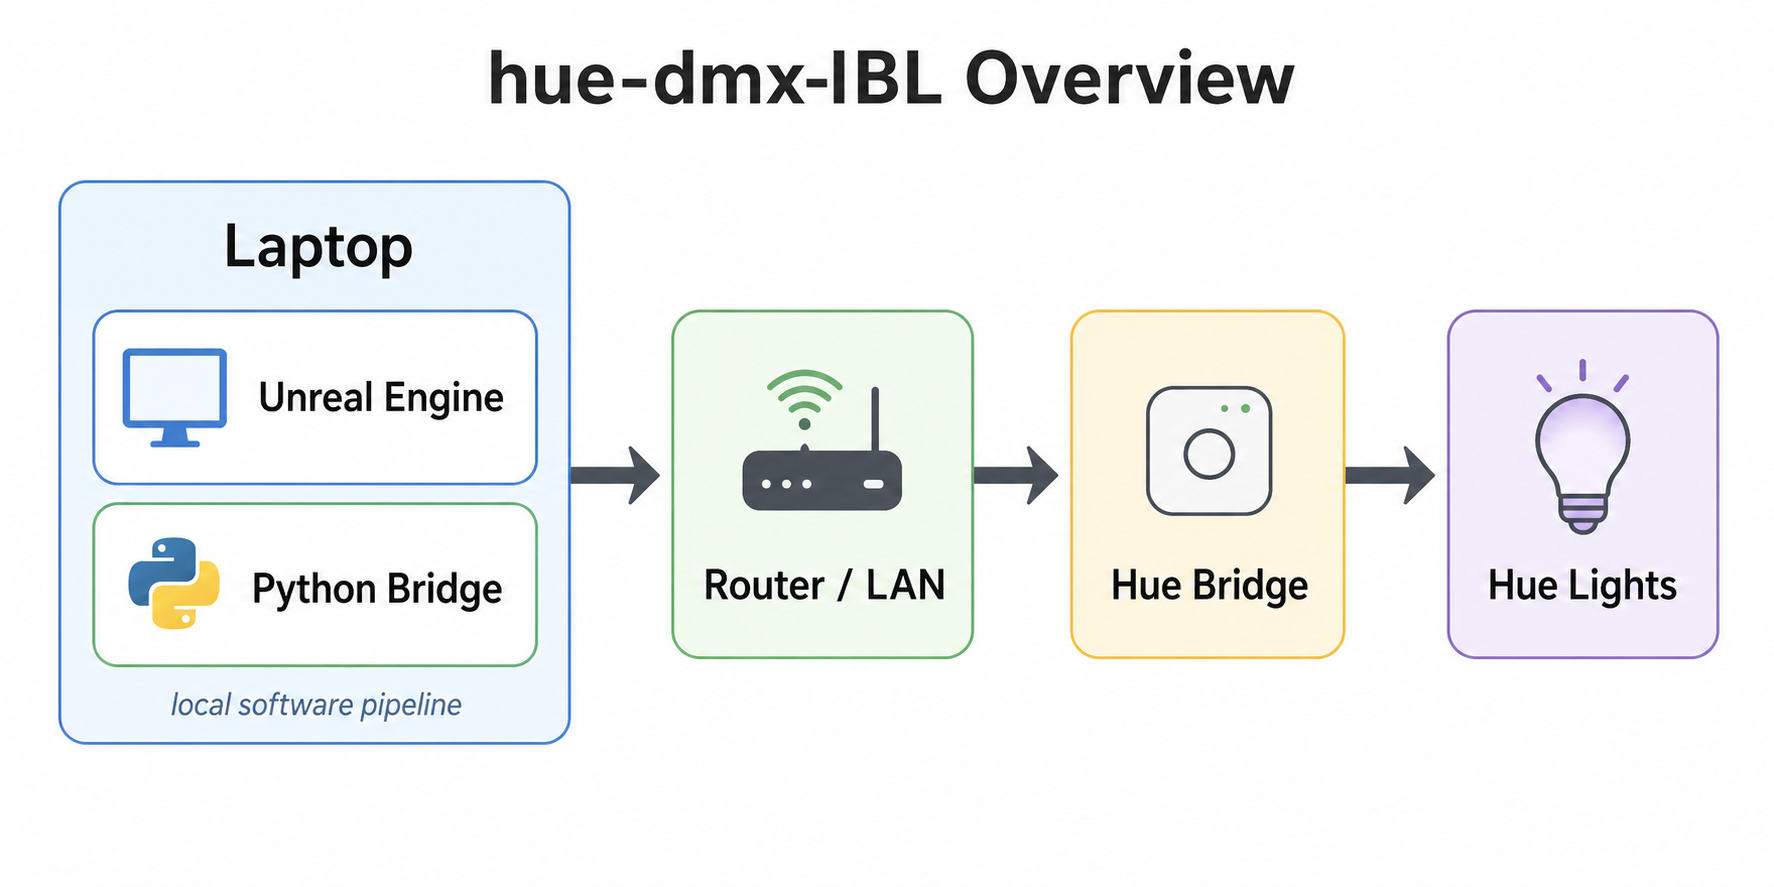
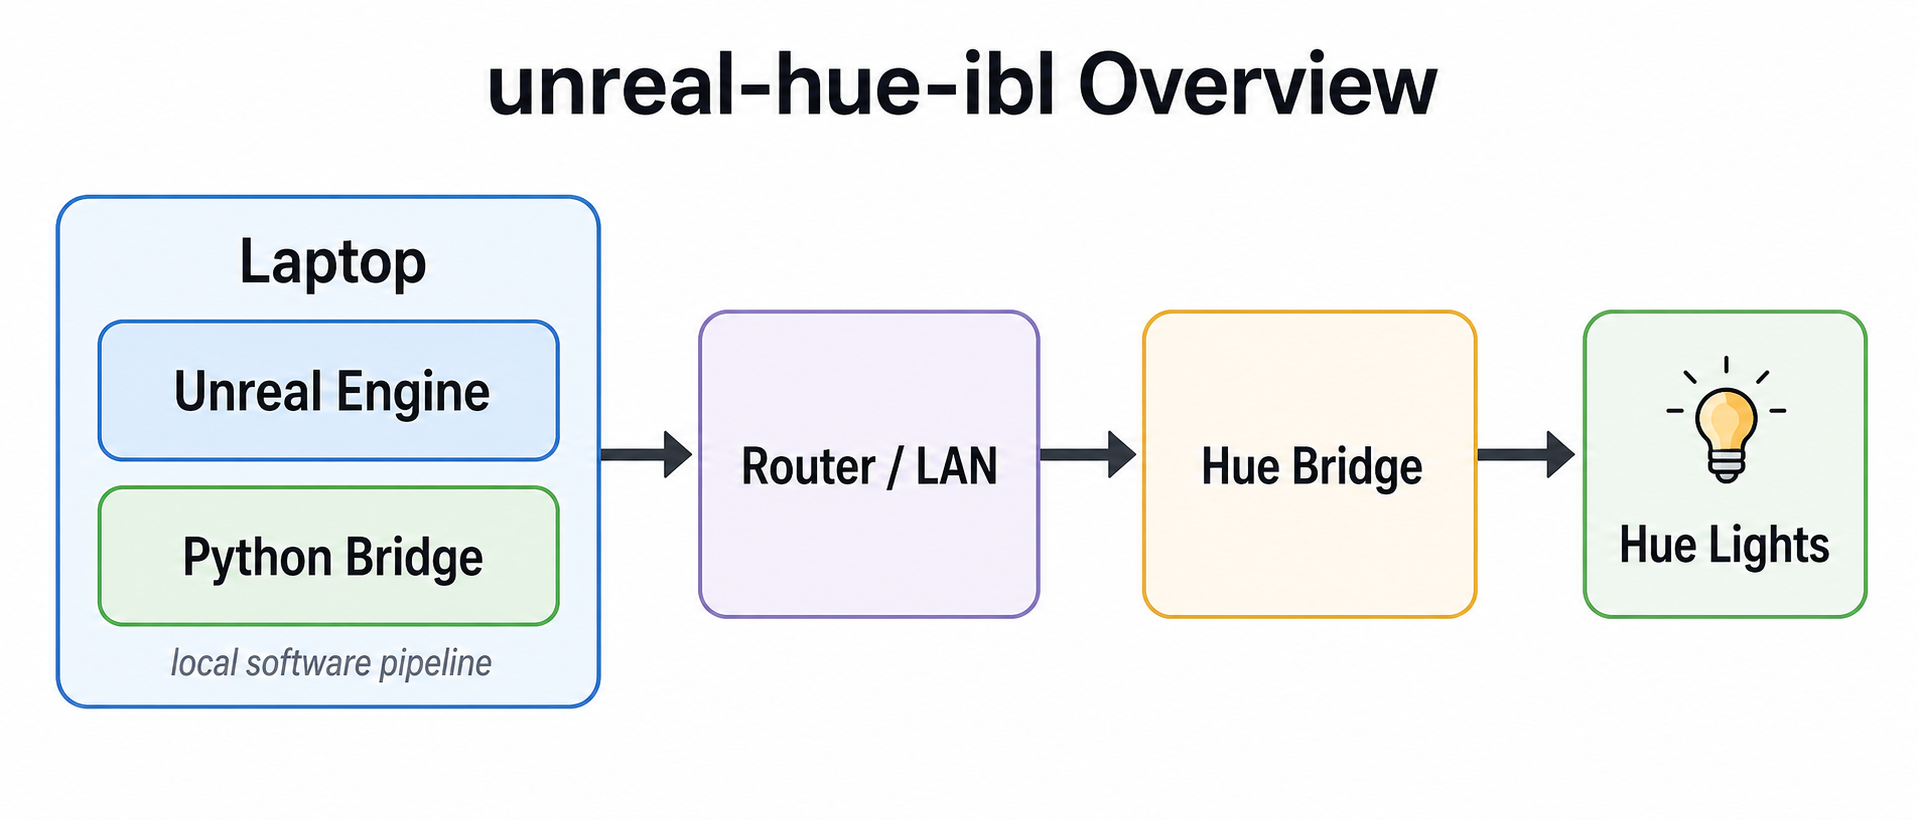
Clarify README and communication workflow

Changed region(s): [[0.031, 0.1829, 0.9921, 0.8841], [0.248, 0.0305, 0.7751, 0.1524]]

diff --git a/README.md b/README.md
@@ -1,74 +1,46 @@
 # unreal-hue-ibl
 
-`unreal-hue-ibl` is an architecture reference and bridge template for driving Philips Hue lights from Unreal Engine using DMX over Art-Net.
+`unreal-hue-ibl` is an Unreal Engine to Philips Hue lighting bridge reference. It shows how Unreal Engine DMX output can drive Hue lights through a small Python translator.
 
 ![unreal-hue-ibl Overview](docs/images/overview-workflow.png)
 
-## Communication Workflow
+## Architecture At A Glance
 
 ```text
 Laptop
-  Unreal Engine -> Art-Net UDP 127.0.0.1:6454 -> Python Bridge
-  Python Bridge -> Hue Entertainment API over LAN
+  Unreal Engine --Art-Net UDP 127.0.0.1:6454--> Python Bridge
 
-Network
-  Router -> Hue Bridge -> Philips Hue Lights
+Network / Hue System
+  Python Bridge --Hue Entertainment Stream--> Router / LAN --> Hue Bridge --> Hue Lights
 ```
 
-The Hue Bridge does **not** receive DMX or Art-Net directly. The Python bridge receives Art-Net from Unreal Engine, translates DMX values into Hue Entertainment RGB updates, and sends those updates to the Hue Bridge over the local network.
-
-The repository is intentionally focused on the workflow and reproducible bridge setup. The full Unreal Engine project/template can be distributed separately as a release or external download link instead of committing the entire UE project into Git.
-
-## Workflow Views
-
-| View | Purpose |
-| --- | --- |
-| [Hardware Workflow](docs/hardware-workflow.md) | Shows the physical laptop, router, Hue Bridge, and Hue lights connection |
-| [Communication Workflow](docs/communication-workflow.md) | Shows which protocols are used between each part |
-| [System Architecture](docs/system-architecture.md) | Explains what each component actually does |
-
-## Repository Layout
+The important boundary is the Python bridge:
 
 ```text
-bridge/
-  hue_artnet_bridge.py       Public bridge script without private credentials
-  config.example.json        Example Hue/Art-Net configuration
-  requirements.txt
-
-docs/
-  communication-workflow.md  Mermaid workflow and signal path notes
-  dmx-mapping.md             DMX channel layout
-  hardware-workflow.md       Physical connection diagram
-  hue-bridge-setup.md        Hue Entertainment setup notes
-  system-architecture.md     Component responsibilities
-  troubleshooting.md
-  unreal-setup.md
-  images/
-    overview-workflow.png
-    communication-workflow.png
-    hardware-network-workflow.png
-
-unreal-template/
-  README.md                  Template distribution notes and download link slot
+DMX / Art-Net side: Unreal Engine -> Python Bridge
+Hue side:          Python Bridge -> Hue Bridge -> Hue Lights
 ```
 
-## Default Signal Settings
+The Hue Bridge does **not** receive DMX or Art-Net directly. It receives Hue Entertainment stream data from the Python bridge.
 
-| Layer | Setting |
-| --- | --- |
-| Protocol | Art-Net |
-| UDP port | `6454` |
-| Unreal destination IP | `127.0.0.1` when bridge runs on the same machine |
-| Universe | `1` |
-| Fixture layout | `Dimmer, Red, Green, Blue` |
-| Default fixture count | `11` |
+Art-Net is the local protocol link from Unreal Engine to Python. It is not a separate hardware device or app in this setup.
 
-## Quick Start
+## How To Use This Repo
+
+1. Start with the overview above to understand the high-level hardware path.
+2. Read [Communication Workflow](docs/communication-workflow.md) to understand the exact protocol path.
+3. Read [Hardware Workflow](docs/hardware-workflow.md) to understand the laptop, router, Hue Bridge, and Hue lights setup.
+4. Use the public Python bridge in [bridge/](bridge/) as the runnable Art-Net to Hue translator.
+5. Use [unreal-template/](unreal-template/) as the placeholder for the downloadable Unreal Engine template project.
+
+This repository is intentionally not a full Unreal Engine project backup. Large UE assets should be distributed through a GitHub Release or external template download link.
+
+## Run The Bridge
 
 1. Configure a Hue Entertainment Area in the Philips Hue app.
 2. Copy `bridge/config.example.json` to `bridge/config.json`.
-3. Fill in your Hue Bridge `ip_address`, `identification`, `rid`, `username`, and `clientkey`.
-4. Install Python dependencies:
+3. Fill in your Hue Bridge values in `bridge/config.json`.
+4. Install dependencies:
 
 ```bash
 pip install -r bridge/requirements.txt
@@ -80,8 +52,39 @@ pip install -r bridge/requirements.txt
 python bridge/hue_artnet_bridge.py --config bridge/config.json
 ```
 
-6. In Unreal Engine, output Art-Net to `127.0.0.1`, UDP port `6454`, universe `1`.
+6. In Unreal Engine, send Art-Net to:
 
-## Security Note
+```text
+Destination IP: 127.0.0.1
+Port: 6454
+Universe: 1
+Fixture layout: Dimmer, Red, Green, Blue
+```
 
-Do not commit your real Hue Bridge `username`, `clientkey`, local bridge config, or private network details. Use `config.example.json` for public documentation and keep `config.json` local.
+Use `127.0.0.1` when Unreal Engine and the Python bridge are running on the same laptop.
+
+## Docs
+
+| Document | Purpose |
+| --- | --- |
+| [Overview](docs/overview.md) | Project concept and component responsibilities |
+| [Communication Workflow](docs/communication-workflow.md) | Protocol flow from Unreal Engine to Hue lights |
+| [Hardware Workflow](docs/hardware-workflow.md) | Physical laptop, router, bridge, and light setup |
+| [System Architecture](docs/system-architecture.md) | What each component does and does not do |
+| [Unreal Setup](docs/unreal-setup.md) | Unreal Engine DMX / Art-Net setup notes |
+| [Hue Bridge Setup](docs/hue-bridge-setup.md) | Hue Entertainment setup notes |
+| [DMX Mapping](docs/dmx-mapping.md) | DMX channel mapping |
+| [Troubleshooting](docs/troubleshooting.md) | Common setup issues |
+
+## Repository Layout
+
+```text
+bridge/             Python Art-Net to Hue bridge
+docs/               Architecture, workflow, and setup documentation
+docs/images/        Generated workflow diagrams
+unreal-template/    Unreal Engine template distribution notes
+```
+
+## Security
+
+Do not commit your real Hue Bridge `username`, `clientkey`, `bridge/config.json`, or private network details. Keep local credentials out of Git.

diff --git a/docs/communication-workflow.md b/docs/communication-workflow.md
@@ -12,7 +12,6 @@ The generated image is intended for quick reading. The Mermaid diagram below is 
 flowchart LR
   subgraph LOCAL[Local Computer]
     UE[Unreal Engine<br/>DMX / Art-Net Output]
-    ARTNET[Art-Net UDP<br/>127.0.0.1:6454<br/>Universe 1]
     PY[Python Bridge<br/>Parse ArtDMX<br/>Map Dimmer + RGB]
   end
 
@@ -20,8 +19,7 @@ flowchart LR
   BRIDGE[Hue Bridge]
   LIGHTS[Philips Hue Lights]
 
-  UE --> ARTNET
-  ARTNET -->|internal Art-Net bridge| PY
+  UE -->|Art-Net UDP<br/>127.0.0.1:6454<br/>Universe 1| PY
   PY -->|LAN / HTTPS + DTLS| API
   API --> BRIDGE
   BRIDGE -->|Hue light control| LIGHTS
@@ -30,13 +28,14 @@ flowchart LR
 ## Data Path
 
 1. Unreal Engine and the Python bridge run on the same local computer.
-2. Unreal Engine sends DMX frames using Art-Net to `127.0.0.1:6454`.
-3. The Python bridge listens for ArtDMX UDP packets on port `6454`.
-4. The bridge filters packets by universe.
-5. DMX channels are mapped into Hue RGB values.
-6. RGB updates are sent through the Hue Entertainment Streaming API over the LAN.
-7. The Hue Bridge receives Hue Entertainment stream data, not DMX.
-8. The Hue Bridge forwards the real-time lighting state to Hue lights.
+2. Unreal Engine sends DMX frames using its Art-Net output to `127.0.0.1:6454`.
+3. Art-Net is the protocol on the local UDP link between Unreal Engine and Python, not a separate hardware device or app.
+4. The Python bridge listens for ArtDMX UDP packets on port `6454`.
+5. The bridge filters packets by universe.
+6. DMX channels are mapped into Hue RGB values.
+7. RGB updates are sent through the Hue Entertainment Streaming API over the LAN.
+8. The Hue Bridge receives Hue Entertainment stream data, not DMX.
+9. The Hue Bridge forwards the real-time lighting state to Hue lights.
 
 ## Why `127.0.0.1`
 
